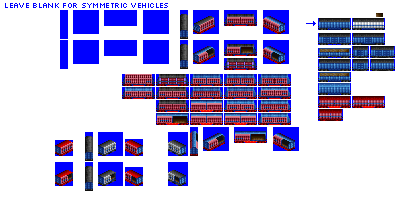
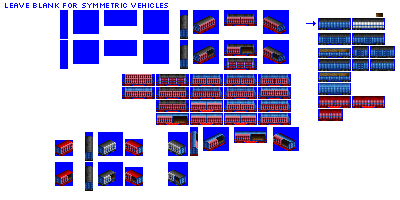
Change: sprites complete for gen 4C sliding wall car

diff --git a/src/vehicles/sliding_wall_cars.py b/src/vehicles/sliding_wall_cars.py
@@ -22,7 +22,7 @@ def main():
                             gen=4,
                             subtype='C',
                             intro_date_offset=5,  # let's be a little bit later for this one
-                            sprites_complete=False)
+                            sprites_complete=True)
 
     consist.add_unit(type=FreightCar,
                      suppress_roof_sprite=True, # non-standard roof for this wagon
